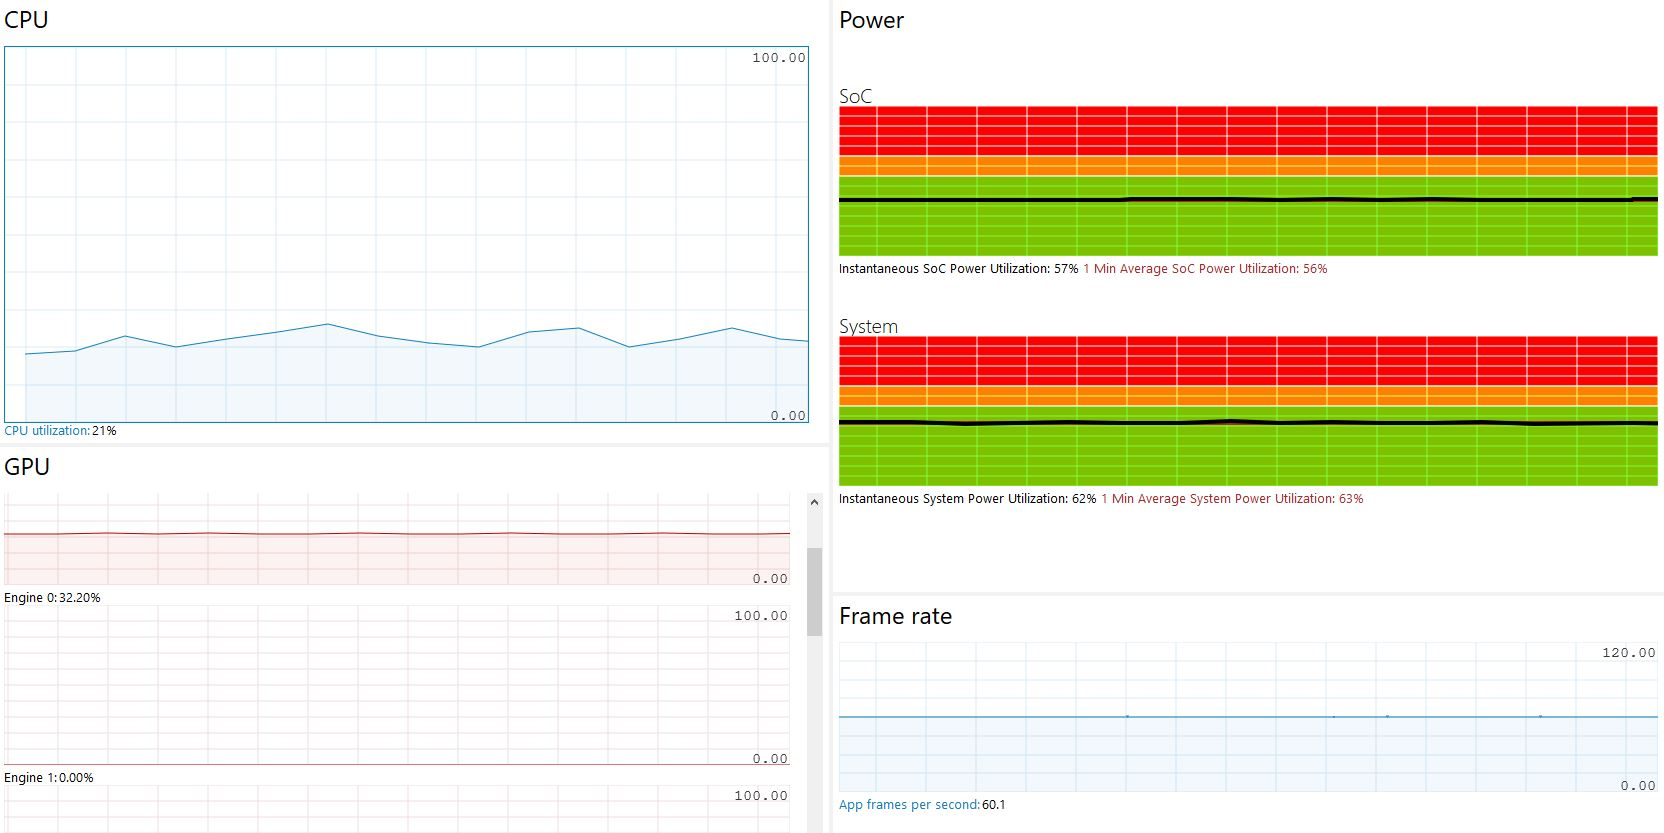
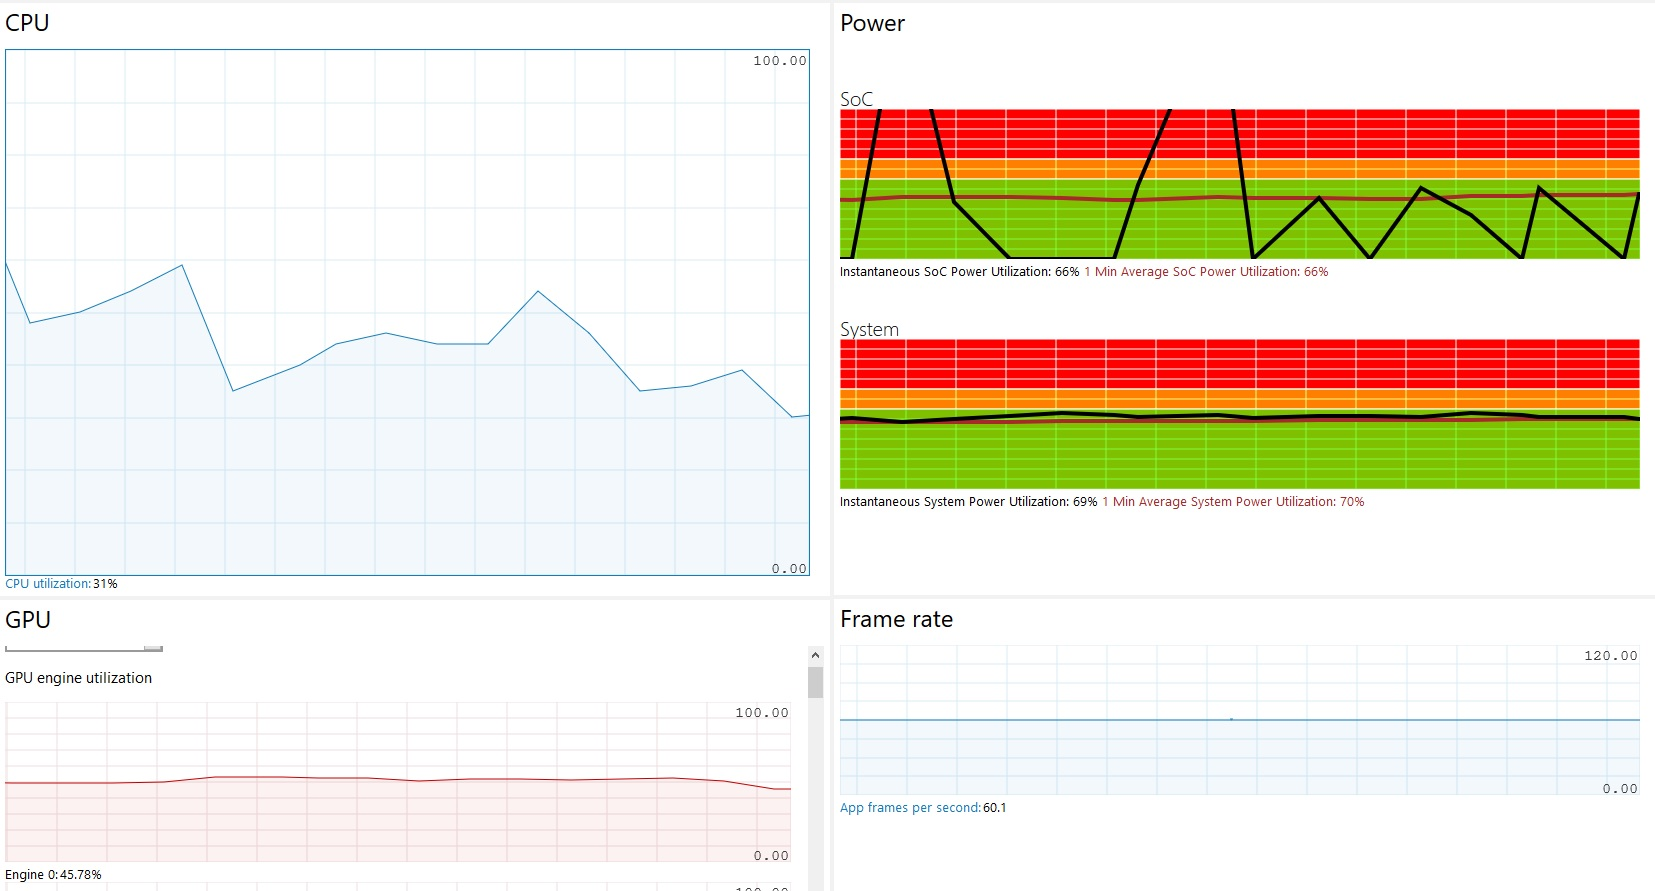
Performance Screenshots not final

diff --git a/Schriftliche Ausarbeitung/sections/sec-5.tex b/Schriftliche Ausarbeitung/sections/sec-5.tex
@@ -501,9 +501,9 @@ Um den Anwender über länger laufende Prozesse zu informieren, kommt eine Forts
 Für die Kommunikation mit dem Nutzer ist bei dieser Anwendung vor allem wichtig, was das System tut. Längere Ladezeiten o.Ä. treten hier nicht auf, daher wird lediglich das Text-Element des Indikators verwendet, von der prozentualen Anzeige wird nicht Gebrauch gemacht. Komponenten, die den Indikator nutzen, stellen jedoch stets sicher, dass eine Nachricht lange genug sichtbar ist, um gelesen werden zu können. Länger laufende Operationen sind stets asynchron umgesetzt, die pro Frame nur einen Teil der Arbeit erledigen und so den Renderprozess nicht blockieren.\\
 
 \textit{Kantenglättung}\\
-Bei Darstellungen auf der HoloLens fällt der Kantenglättung eine besondere Bedeutung zu. Im Gegensatz zu anderen Anwendungen, bei denen denen der Nutzer die Kamera über herkömmliche Eingabegeräte steuert, ist bei der Brille die Kamera an die Kopfbewegungen des Trägers gebunden. Die Displays folgen daher den ständigen, feinen Vibrationen des Kopfes, die Kamera steht also nie still. Deshalb können Treppeneffekte an Kanten besonders auffällig und störend wirken, da das resultierende Kantenflimmern stetig präsent ist. Allerdings sind Anti-Aliasing-Verfahren wie z.B. Multi Sampled Anti Aliasing oft mit erheblichem Rechenaufwand verbunden.\\
+Bei Darstellungen auf der HoloLens fällt der Kantenglättung eine besondere Bedeutung zu. Im Gegensatz zu anderen Anwendungen, bei denen der Nutzer die Kamera über herkömmliche Eingabegeräte steuert, ist bei der Brille die Kamera an die Kopfbewegungen des Trägers gebunden. Die Displays folgen daher den ständigen, feinen Vibrationen des Kopfes, die Kamera steht also nie still. Deshalb können Treppeneffekte an Kanten besonders auffällig und störend wirken, da das resultierende Kantenflimmern stetig präsent ist. Allerdings sind Anti-Aliasing-Verfahren wie z.B. Multisample Anti-Aliasing oft mit erheblichem Rechenaufwand verbunden.\\
 
-Für die gewählte Visualisierung der Simulationsdaten über Linien ist eine Form des Anti-Aliasing jedoch unerlässlich. Andernfalls würde hier die gesamte Darstellung flimmern. Deshalb wurde sich hier für den Einsatz von zweifachem Multi-Sampled Anti-Aliasing (MSAA) entschieden. Das Verfahren wird durch Unity standardmäßig unterstützt und kann ohne weitere Maßnahmen für die Kamera aktiviert werden. Die Dokumentation rät zwar im Rahmen der Hinweise zu ressourcenschonenden Maßnahmen vom Einsatz solcher Verfahren ab. Da die Anwendung jedoch sonst keine besonders aufwendigen Berechnungen ausführen muss und der Qualitätsgewinn deutlich wahrnehmbar ist, wird MSAA dennoch verwendet.
+Für die gewählte Visualisierung der Simulationsdaten über Linien ist eine Form des Anti-Aliasing jedoch unerlässlich. Andernfalls würde hier die gesamte Darstellung flimmern. Deshalb wurde sich hier für den Einsatz von zweifachem Multisample Anti-Aliasing (MSAA) entschieden. Das Verfahren wird durch Unity standardmäßig unterstützt und kann ohne weitere Maßnahmen für die Kamera aktiviert werden. Die Dokumentation rät zwar im Rahmen der Hinweise zu ressourcenschonenden Maßnahmen vom Einsatz solcher Verfahren ab. Da die Anwendung jedoch sonst keine besonders aufwendigen Berechnungen ausführen muss und der Qualitätsgewinn deutlich wahrnehmbar ist, wird MSAA dennoch verwendet.
 
 
 % Einzig das Starten und Stoppen des Trackingframeworks 
@@ -589,7 +589,6 @@ Zuletzt sollen einige Maßnahmen genannt werden, die zu einem geringeren Ressour
 	\item Größe des Tiefenpuffers auf 16-Bit gesetzt (Minimum)
 	\item Vuforia nur für den Vorgang der Positionsbestimmung aktiv
 	\item Physics Enginge deaktiviert
-	\item Frustum Culling aktiviert
 	\item Occlusion Mesh wird ausschließlich in Z-Puffer gerendert
 	\item Unsichtbare (vollst. transparente) Objekte werden meist deaktiviert
 \end{itemize}

diff --git a/Schriftliche Ausarbeitung/sections/sec-6.tex b/Schriftliche Ausarbeitung/sections/sec-6.tex
@@ -163,17 +163,28 @@ In Puncto Interaction Clarity kann die Lösung nur als mittel eingestuft werden.
 	\label{img:performance}
 \end{figure}
 
-Einen Eindruck vom Ressourcenverbauch der App vermittelt der Screenshot in Abb. \ref{img:performance}. Zu sehen ist die Auslastung der Brille über einen Zeitraum von 60 Sekunden. Währenddessen wurde mehrfach zwischen den verschiedenen Darstellungen hin- und hergewechselt und das Menü aufgerufen.\\
+Einen Eindruck vom Ressourcenverbauch der App vermittelt der Screenshot in Abb. \ref{img:performance}. Zu sehen ist die Auslastung der Brille über einen Zeitraum von 60 Sekunden. Währenddessen wurde mehrfach zwischen den verschiedenen Darstellungen hin- und hergewechselt und das Menü aufgerufen.
 
-TODO Ergebnisse ermitteln
+\begin{figure}[h!]
+	\centering
+	\includegraphics[width=\textwidth]{images/profiler.png}
+	\caption{Profiler}
+	\label{img:profiler}
+\end{figure}
+
 \begin{itemize}
 	\setlength{\itemsep}{-1pt}
 	\singlespacing
 	\item Konstante Framerate von 60 FPS
-	\item CPU: X-Y\% Auslastung
-	\item GPU: X-Y\% Auslastung
-	\item Stromverbrauch liegt im grünen Bereich
+	\item CPU: 60-30\% Auslastung
+	\item GPU: 40-50\% Auslastung
+	\item Stromverbrauch unregelmäßig
 \end{itemize}
+
+Insgesamt ist die Auslastung der Hardware relativ hoch. Zwar liegen sowohl bei CPU als auch GPU noch Reserven, allerdings bestimmt das Zusammenspiel von CPU und GPU die Framerate.\\
+
+MSAA treibt Ressourcenverbrauch in die Höhe: ohne MSAA etwa 25\% GPU\\
+Rendering der Linien besonders CPU-intensiv. knapp 7 ms CPU-Zeit nur für die Linien, ohne Optimierungen etwa 45 ms\\
 
 \textit{Testbedingungen}\\
 Die Bewertung wurde anhand von Tests unter für die Anwendung günstigen Bedingungen durchgeführt. Der Versuchsaufbau wurde so positioniert, dass die umliegenden Objekte gut für das Tracking der Brille geeignet sind. Außerdem wurde die HoloLens vorher öfter im Testraum verwendet und hatte daher bereits ein gutes Modell des Raums zur Orientierung. Weiterhin wurde die Brille auf den Tester kalibriert und ruckartige oder unnötige Kopfbewegungen vermieden. 
